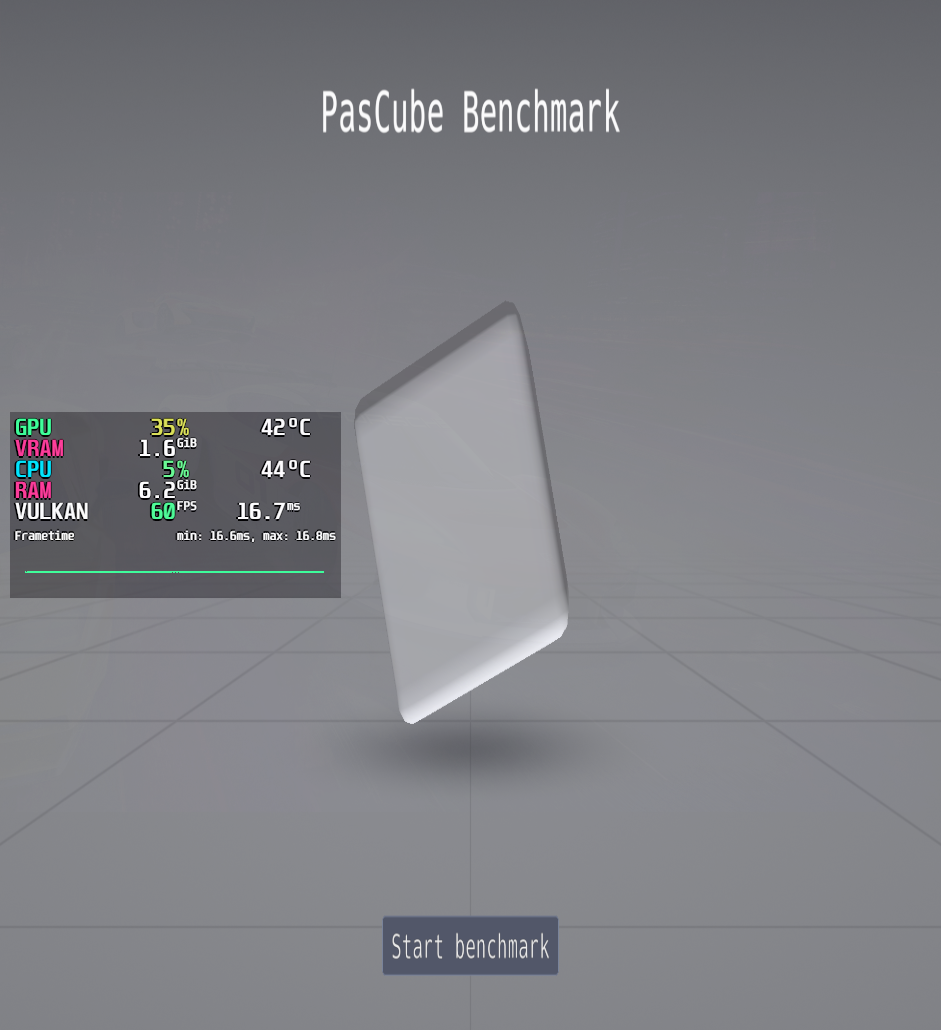
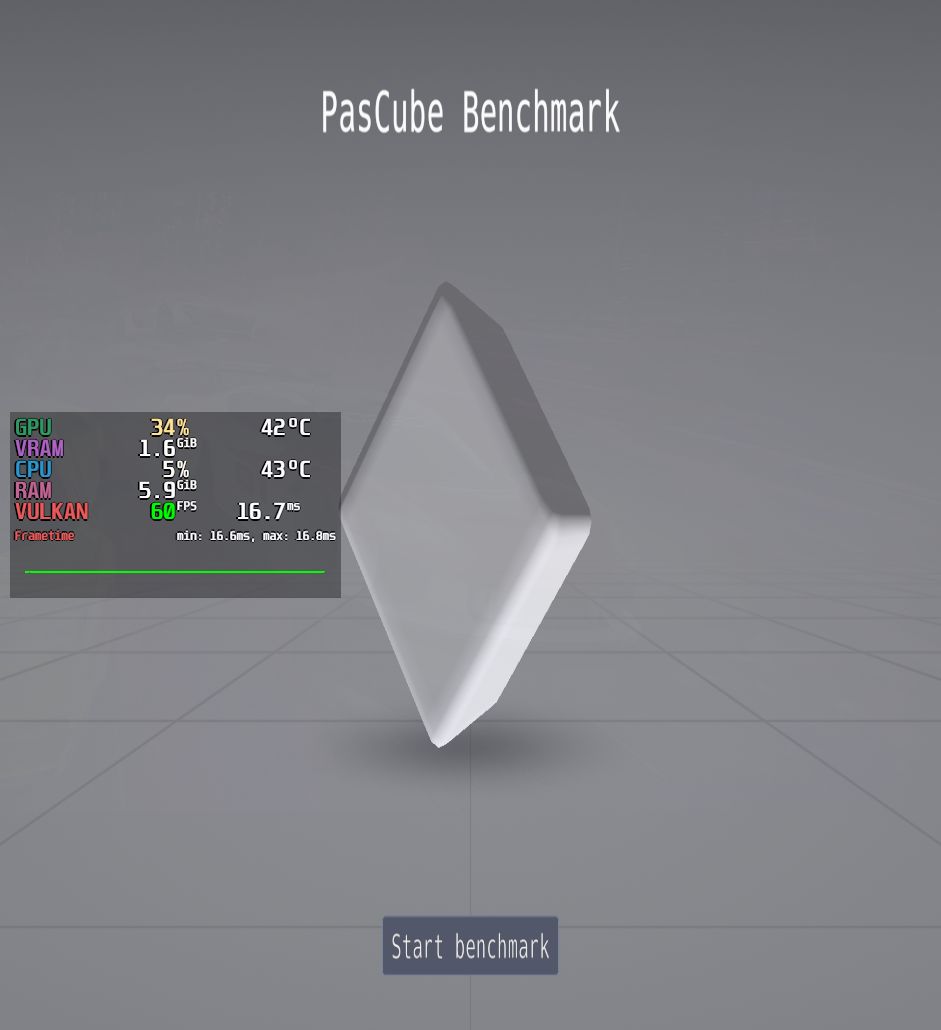
Trace the middle-left PasCube HUD in mockups; refresh the live reference.

diff --git a/lib/omahud.py b/lib/omahud.py
@@ -24,7 +24,7 @@ from PIL import Image, ImageDraw, ImageFont
 
 PLUGIN_ID = "io.github.alxwolfenstein97.omahud"
 HEX_RE = re.compile(r"^#?[0-9A-Fa-f]{6}$")
-MOCKUP_LAYOUT_VERSION = "1"
+MOCKUP_LAYOUT_VERSION = "2"
 MOCKUP_SIZE = (1536, 864)
 
 # Keys we may retint. Multi-value keys use comma-separated RRGGBB lists.
@@ -497,72 +497,114 @@ def bust_image_picker_cache(preview_root: Path) -> None:
                 path.unlink(missing_ok=True)
 
 
+def _rgb_strip(value: str) -> tuple[int, int, int]:
+    return hex_to_rgb("#" + value.lstrip("#"))
+
+
+def _triple_rgbs(value: str) -> tuple[tuple[int, int, int], tuple[int, int, int], tuple[int, int, int]]:
+    parts = [p.strip() for p in value.split(",") if p.strip()]
+    while len(parts) < 3:
+        parts.append(parts[-1] if parts else "FFFFFF")
+    return _rgb_strip(parts[0]), _rgb_strip(parts[1]), _rgb_strip(parts[2])
+
+
 def render_mockup(palette: dict[str, str], dest: Path, size: tuple[int, int] = MOCKUP_SIZE) -> Path:
-    """Fake in-game HUD strip — metrics chrome, not a live vkcube capture."""
+    """True Theme Vibe HUD — middle-left 3-col panel matching the PasCube reference.
+
+    Traces the user's Goverlay metrics silhouette (GPU/VRAM/CPU/RAM/engine/FPS +
+    frametime graph), not a live capture. Colours come from colors.toml via the
+    same MangoHud key map as apply_theme.
+    """
     w, h = size
-    bg = hex_to_rgb(palette["_bg"])
-    # Dim “game” field behind the HUD
-    field = tuple(max(0, c - 18) for c in bg)
+    # Neutral “game” viewport (PasCube-ish grey), so palette reads on the HUD only
+    field = (55, 55, 58)
+    floor = (48, 48, 50)
     img = Image.new("RGB", (w, h), field)
     draw = ImageDraw.Draw(img)
+    # floor plane + faint grid
+    horizon = int(h * 0.58)
+    draw.rectangle((0, horizon, w, h), fill=floor)
+    for i in range(0, w, 48):
+        draw.line((i, horizon, i + (i - w // 2) // 8, h), fill=(42, 42, 44))
+    for j in range(horizon, h, 36):
+        draw.line((0, j, w, j), fill=(42, 42, 44))
+    # simple cube stand-in (center)
+    cx, cy = w // 2, int(h * 0.48)
+    cube = [(cx - 90, cy), (cx, cy - 55), (cx + 90, cy), (cx, cy + 55)]
+    draw.polygon(cube, fill=(210, 210, 212), outline=(170, 170, 172))
+    draw.polygon(
+        [(cx - 90, cy), (cx, cy + 55), (cx, cy + 95), (cx - 90, cy + 40)],
+        fill=(150, 150, 152),
+    )
+    draw.polygon(
+        [(cx + 90, cy), (cx, cy + 55), (cx, cy + 95), (cx + 90, cy + 40)],
+        fill=(120, 120, 122),
+    )
+    title_font = try_ui_font(22)
+    draw.text((cx - 95, 36), "PasCube Benchmark", font=title_font, fill=(220, 220, 220))
 
-    # Subtle vignette grid so it reads as a 3D viewport, not a blank tile
-    grid = hex_to_rgb(palette.get("_accent", palette["_fg"]))
-    for x in range(0, w, 64):
-        draw.line((x, 0, x, h), fill=tuple(max(0, c // 5) for c in grid))
-    for y in range(0, h, 64):
-        draw.line((0, y, w, y), fill=tuple(max(0, c // 5) for c in grid))
+    text = _rgb_strip(palette["text_color"])
+    gpu = _rgb_strip(palette["gpu_color"])
+    cpu = _rgb_strip(palette["cpu_color"])
+    vram = _rgb_strip(palette["vram_color"])
+    ram = _rgb_strip(palette["ram_color"])
+    engine = _rgb_strip(palette["engine_color"])
+    ft = _rgb_strip(palette["frametime_color"])
+    fps_lo, fps_mid, fps_hi = _triple_rgbs(palette["fps_color"])
+    load_lo, load_mid, load_hi = _triple_rgbs(palette["gpu_load_color"])
 
-    panel_x, panel_y = 80, 120
-    panel_w, panel_h = 420, 520
-    panel_bg = hex_to_rgb("#" + palette["background_color"])
-    # alpha-ish by mixing with field
-    panel_fill = tuple(int(panel_bg[i] * 0.75 + field[i] * 0.25) for i in range(3))
-    draw.rounded_rectangle(
+    # Middle-left panel (reference: vertically centered, left edge)
+    panel_w, panel_h = 340, 300
+    panel_x = 28
+    panel_y = (h - panel_h) // 2
+    panel_bg = _rgb_strip(palette["background_color"])
+    panel_fill = tuple(int(panel_bg[i] * 0.55 + field[i] * 0.45) for i in range(3))
+    draw.rectangle(
         (panel_x, panel_y, panel_x + panel_w, panel_y + panel_h),
-        radius=8,
         fill=panel_fill,
     )
 
-    font = try_ui_font(28)
-    font_sm = try_ui_font(20)
-    text = hex_to_rgb("#" + palette["text_color"])
-    gpu = hex_to_rgb("#" + palette["gpu_color"])
-    cpu = hex_to_rgb("#" + palette["cpu_color"])
-    ram = hex_to_rgb("#" + palette["ram_color"])
-    fps_hi = hex_to_rgb(palette["_green"])
-    fps_mid = hex_to_rgb(palette["_yellow"])
-    fps_lo = hex_to_rgb(palette["_red"])
+    font = try_ui_font(20)
+    font_sm = try_ui_font(16)
+    col_label = panel_x + 14
+    col_a = panel_x + 100
+    col_b = panel_x + 210
+    y = panel_y + 14
+    row_h = 36
 
-    x = panel_x + 24
-    y = panel_y + 24
-    rows = [
-        ("GPU", "64%", "72°C", gpu),
-        ("VRAM", "3.2 GiB", "", hex_to_rgb("#" + palette["vram_color"])),
-        ("CPU", "41%", "58°C", cpu),
-        ("RAM", "12.4 GiB", "", ram),
-        ("FPS", "144", "6.9 ms", fps_hi),
+    rows: list[tuple[str, tuple[int, int, int], str, tuple[int, int, int], str, tuple[int, int, int]]] = [
+        ("GPU", gpu, "34%", load_mid, "42°C", text),
+        ("VRAM", vram, "1.6 GiB", text, "", text),
+        ("CPU", cpu, "5%", text, "43°C", text),
+        ("RAM", ram, "5.9 GiB", text, "", text),
+        ("VULKAN", engine, "60 FPS", fps_hi, "16.7 ms", text),
     ]
-    for label, a, b, color in rows:
-        draw.text((x, y), label, font=font_sm, fill=color)
-        draw.text((x + 110, y), a, font=font, fill=text)
+    for label, label_c, a, a_c, b, b_c in rows:
+        draw.text((col_label, y), label, font=font, fill=label_c)
+        draw.text((col_a, y), a, font=font, fill=a_c)
         if b:
-            draw.text((x + 260, y), b, font=font, fill=text)
-        y += 56
-        # load bar
-        bar_y = y - 12
-        draw.rectangle((x, bar_y, x + 360, bar_y + 6), fill=tuple(c // 4 for c in text))
-        draw.rectangle((x, bar_y, x + 220, bar_y + 6), fill=color)
-        y += 28
+            draw.text((col_b, y), b, font=font, fill=b_c)
+        y += row_h
 
-    # fps colour legend
-    draw.text((x, y + 8), "fps", font=font_sm, fill=text)
-    for i, col in enumerate((fps_lo, fps_mid, fps_hi)):
-        bx = x + 80 + i * 70
-        draw.rectangle((bx, y + 12, bx + 56, y + 28), fill=col)
+    # frametime graph (single bright line like a flat 16.7ms trace)
+    graph_top = y + 4
+    graph_bot = panel_y + panel_h - 36
+    draw.rectangle(
+        (panel_x + 12, graph_top, panel_x + panel_w - 12, graph_bot),
+        fill=tuple(max(0, c - 10) for c in panel_fill),
+    )
+    gy = (graph_top + graph_bot) // 2
+    draw.line((panel_x + 14, gy, panel_x + panel_w - 14, gy), fill=ft, width=2)
+
+    draw.text(
+        (panel_x + 14, graph_bot + 6),
+        "Frametime  min: 16.6ms, max: 16.8ms",
+        font=font_sm,
+        fill=text,
+    )
 
     badge = f"{palette['_name']} · MangoHud colours · layout yours"
-    draw.text((80, h - 48), badge, font=font_sm, fill=hex_to_rgb(palette["_fg"]))
+    draw.text((28, h - 40), badge, font=font_sm, fill=text)
 
     save_png_atomic(img, dest)
     return dest

diff --git a/README.md b/README.md
@@ -25,13 +25,15 @@ Live PasCube / Goverlay cube is still the ground truth for the *real* overlay;
 Style mockups are for picking a tint quickly. Real layout-faithful mockups come
 later — for now we keep a True Theme Vibe reference of a live shot:
 
-**Reference — your metrics layout on PasCube (middle-left, colours from theme):**
+**Reference — live PasCube (middle-left metrics, MangoHud Stock colours):**
 
-![Real MangoHud on PasCube — middle-left layout](reference-mangohud-pascube.png)
+| Real HUD (PasCube) | OmaHud mockup (same silhouette) |
+| --- | --- |
+| ![Real MangoHud on PasCube — middle-left layout](reference-mangohud-pascube.png) | ![OmaHud mockup — middle-left 3-col panel from colors.toml map](preview.png) |
 
-(`MANGOHUD_CONFIGFILE` + a copy of `MangoHud.conf` with `no_display` stripped —
-do **not** set bare `MANGOHUD_CONFIG=…` alone or MangoHud falls back to stock
-chrome and you get the default top-left HUD.)
+Style carousel tiles use the same panel chrome, recoloured from each theme’s
+`colors.toml`. (`MANGOHUD_CONFIGFILE` + conf with `no_display` stripped for
+shots — bare `MANGOHUD_CONFIG=…` alone falls back to stock top-left chrome.)
 
 ## Install
 
@@ -111,6 +113,9 @@ bash ~/.config/omarchy/plugins/io.github.alxwolfenstein97.omahud/check.sh
 
 ## Credits
 
+- **Layout reference:** [`reference-mangohud-pascube.png`](reference-mangohud-pascube.png)
+  — live `mangohud pascube` with the user’s middle-left metrics layout (MangoHud
+  Stock colours in this shot). Mockups trace that 3-col panel + frametime graph.
 - Sibling Style plugins: [OmaOBS](https://github.com/AlxWolfenstein97/omaobs),
   [OmaCursor](https://github.com/AlxWolfenstein97/omacursor),
   [OmaBoot](https://github.com/AlxWolfenstein97/omaboot),
